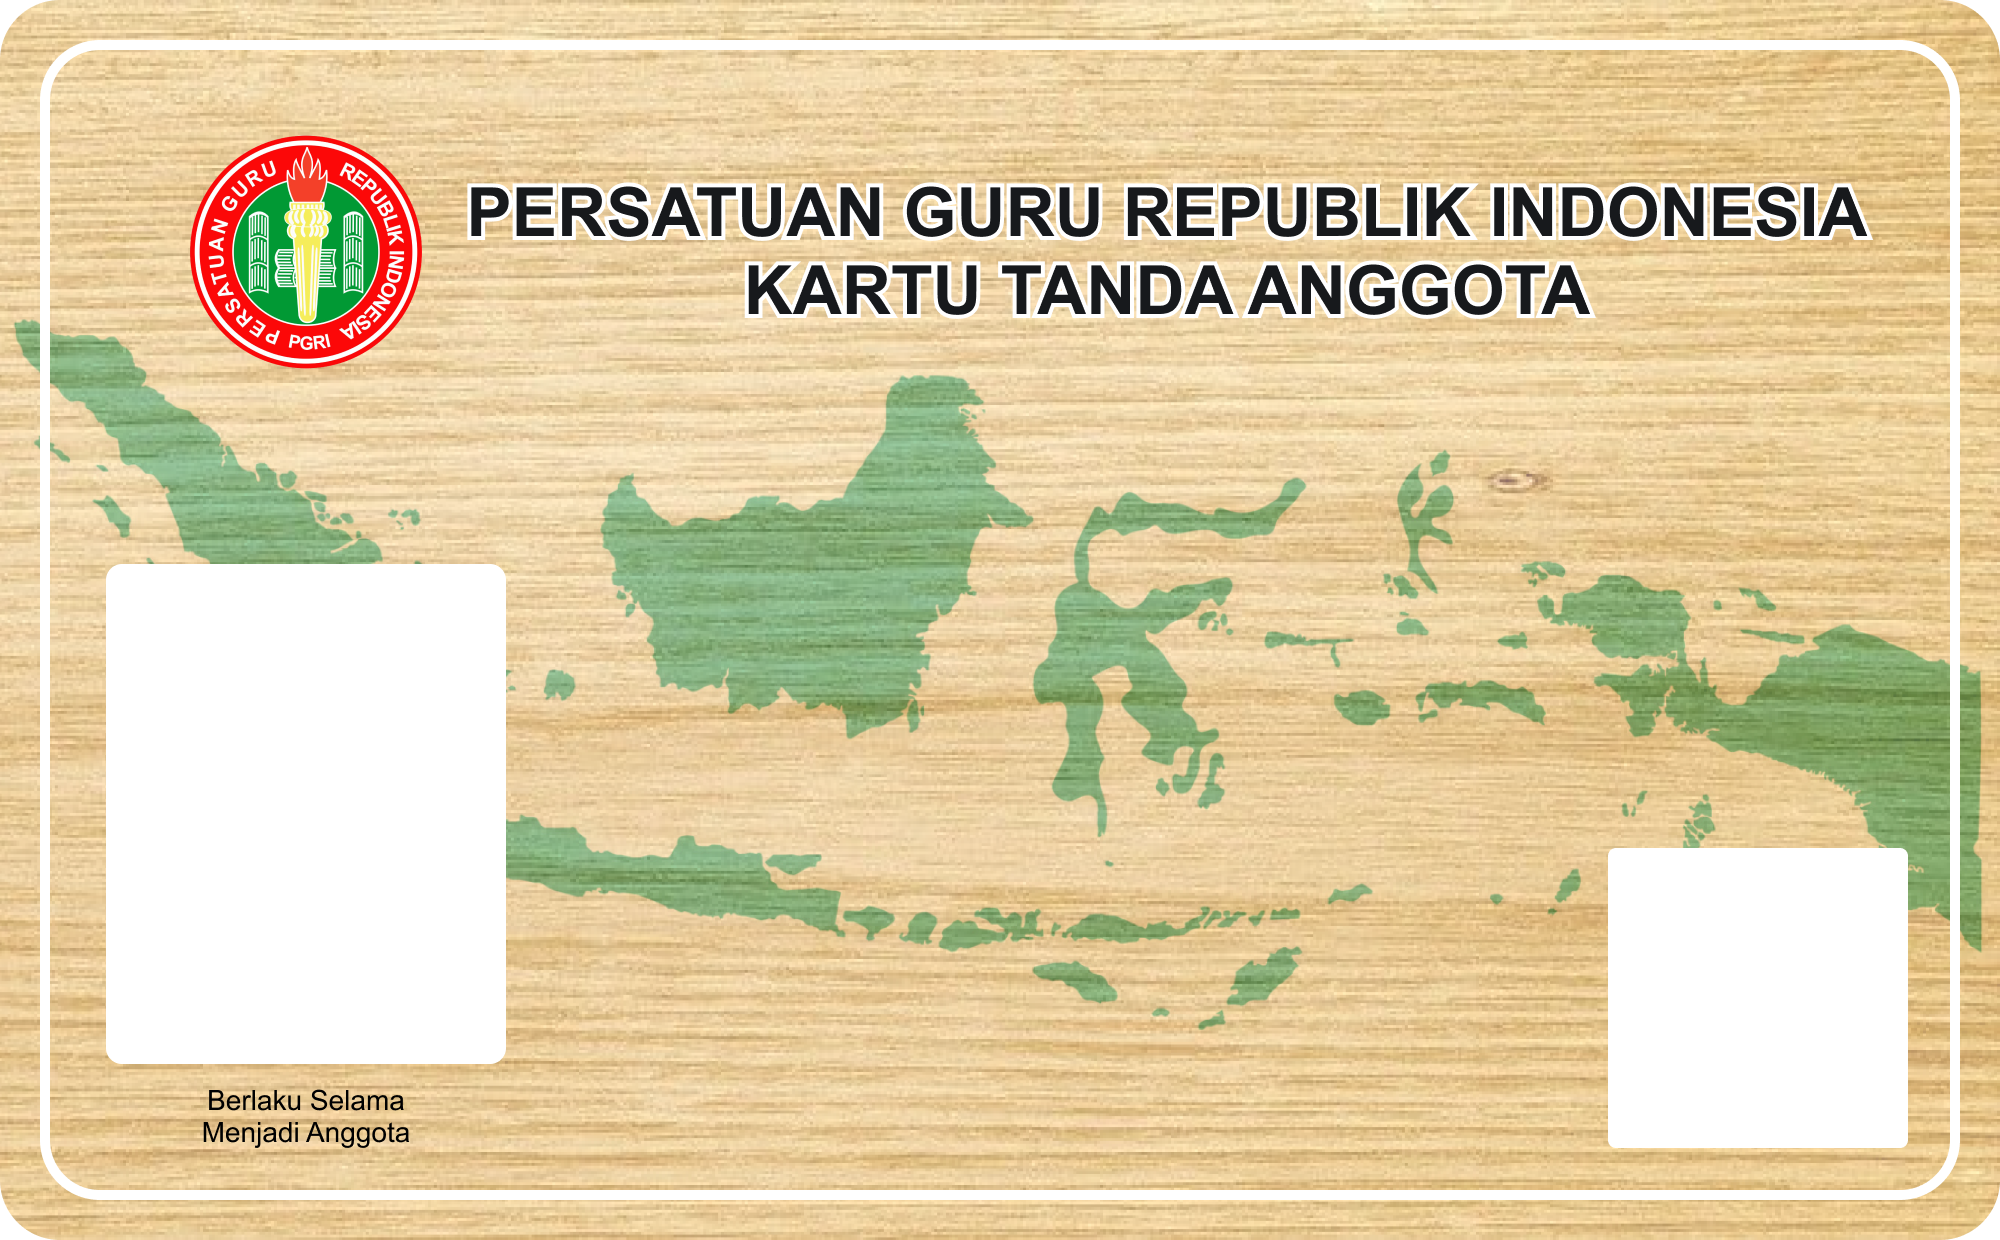
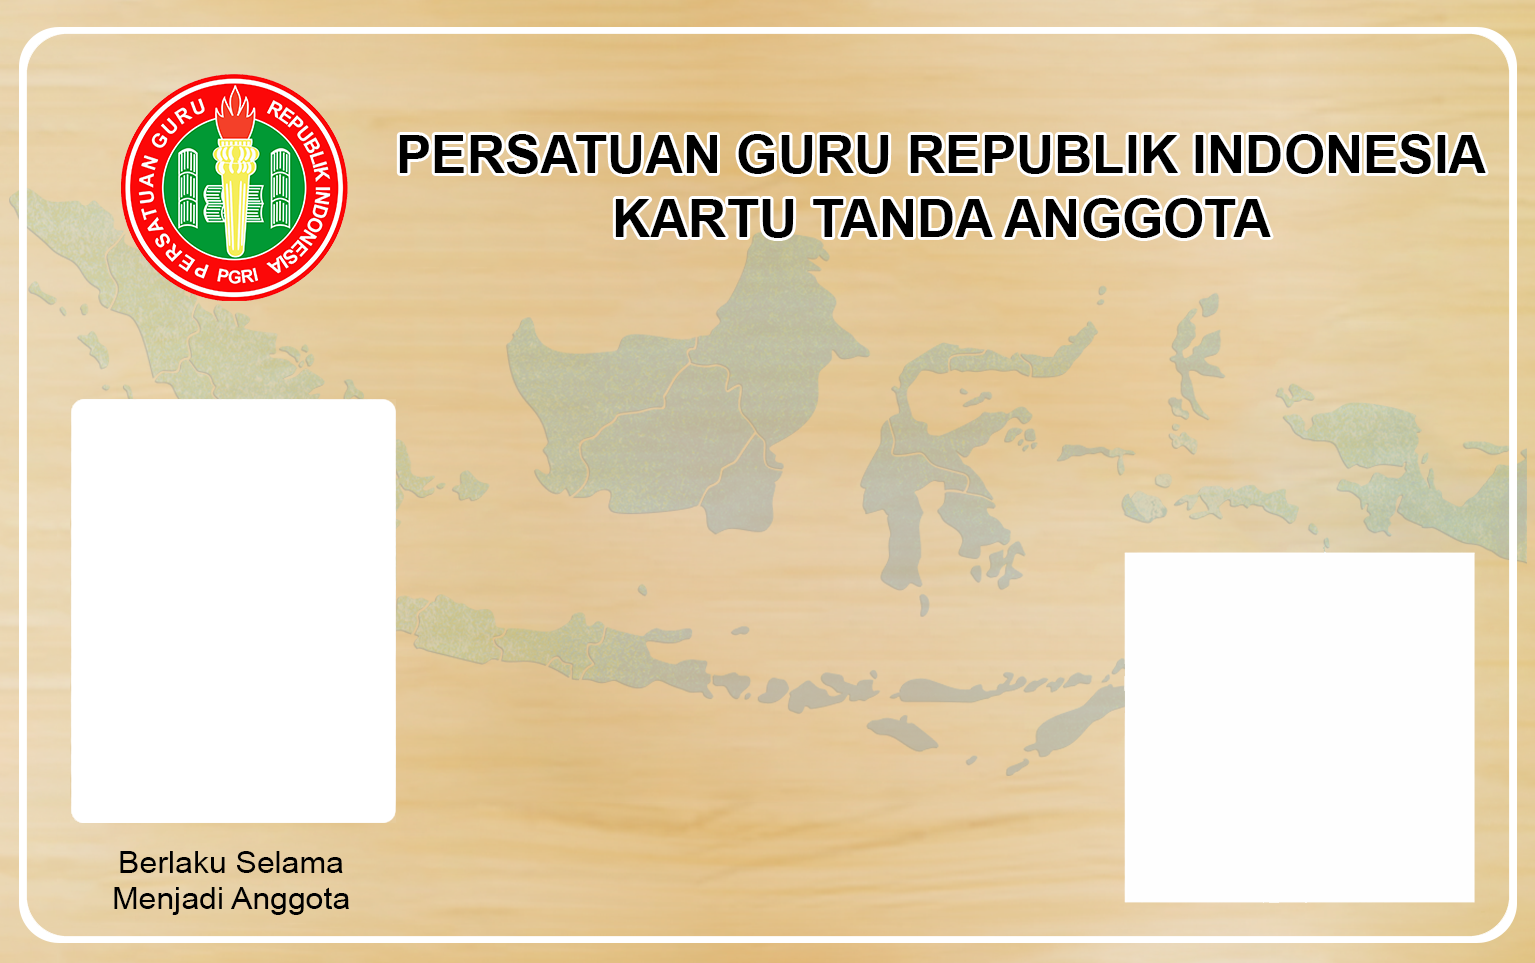
refactor: card and position

diff --git a/src/lib/kta-generator.ts b/src/lib/kta-generator.ts
@@ -16,11 +16,11 @@ export class KTANonBlankoGenerator {
   private readonly cardHeight = 638; // 5.4cm * 300 DPI / 2.54
 
   // Photo dimensions (2cm x 3cm at 300 DPI)
-  private readonly photoWidth = 236; // 2cm * 300 DPI / 2.54
-  private readonly photoHeight = 354; // 3cm * 300 DPI / 2.54
+  private readonly photoWidth = 270; // 2cm * 300 DPI / 2.54
+  private readonly photoHeight = 370; // 3cm * 300 DPI / 2.54
 
   // QR code dimensions (2x2cm at 300 DPI)
-  private readonly qrSize = 236; // 2cm * 300 DPI / 2.54
+  private readonly qrSize = 500; // 2cm * 300 DPI / 2.54
 
   constructor() {
     this.canvas = document.createElement("canvas");
@@ -153,25 +153,18 @@ export class KTANonBlankoGenerator {
     this.ctx.fillStyle = "#000";
     this.ctx.textAlign = "left";
 
-    // Same text positioning as original
-    const textStartX = 300;
-    const nameY = 309;
-    const npaY = 349;
-    const agamaY = 389;
+    // Text positioning - centered vertically on card
+    const textStartX = 100; // Start from left with some margin
+    const nameY = this.cardHeight / 2 - 30; // Center position - 30px
+    const npaY = this.cardHeight / 2 + 30; // Center position + 30px
 
-    // Draw name (larger, bold)
-    this.ctx.font = "bold 24px Arial";
+    // Draw name with font 30 bold
+    this.ctx.font = "bold 30px Arial";
     this.ctx.fillText(data.namaAnggota, textStartX, nameY);
 
-    // Draw NPA
-    this.ctx.font = "20px Arial";
+    // Draw NPA with font 30 bold
+    this.ctx.font = "bold 30px Arial";
     this.ctx.fillText(`NPA. ${data.npa}`, textStartX, npaY);
-
-    // Draw agama
-    this.ctx.font = "20px Arial";
-    if (data.agama) {
-      this.ctx.fillText(`AGAMA: ${data.agama.toUpperCase()}`, textStartX, agamaY);
-    }
   }
 
   private drawValidityText(): void {
@@ -184,7 +177,7 @@ export class KTANonBlankoGenerator {
     const adjustedPhotoHeight = this.photoHeight * photoScaleHeight;
 
     // Calculate center position of photo
-    const photoCenterX = photoX + (adjustedPhotoWidth / 2);
+    const photoCenterX = photoX + adjustedPhotoWidth / 2;
     const validityY = photoY + adjustedPhotoHeight + 30; // 10px gap + some spacing
 
     this.ctx.fillStyle = "#000";
@@ -212,7 +205,6 @@ export class KTANonBlankoGenerator {
       this.drawUserPhoto();
       this.drawUserData(data);
       this.drawQRCode();
-      this.drawValidityText();
 
       // Return canvas as data URL
       return this.canvas.toDataURL("image/png", 1.0);
@@ -326,10 +318,10 @@ export class KTAGenerator {
 
     // ===== MANUAL ADJUSTMENT AREA - PHOTO =====
     // Ubah nilai-nilai ini untuk menyesuaikan posisi dan ukuran foto:
-    const photoX = 53.5; // Horizontal position foto (semakin besar = ke kanan)
-    const photoY = 289; // Vertical position foto (semakin besar = ke bawah)
-    const photoScaleWidth = 0.865; // Scale lebar foto (0.8 = 80% ukuran asli)
-    const photoScaleHeight = 0.73; // Scale tinggi foto (0.8 = 80% ukuran asli)
+    const photoX = 47; // Horizontal position foto (semakin besar = ke kanan)
+    const photoY = 264.1; // Vertical position foto (semakin besar = ke bawah)
+    const photoScaleWidth = 0.913; // Scale lebar foto (0.8 = 80% ukuran asli)
+    const photoScaleHeight = 0.795; // Scale tinggi foto (0.8 = 80% ukuran asli)
     const borderRadius = 8; // Border radius untuk foto (pixels)
     // ============================================
 
@@ -368,9 +360,9 @@ export class KTAGenerator {
 
     // ===== MANUAL ADJUSTMENT AREA - QR CODE =====
     // Ubah nilai-nilai ini untuk menyesuaikan posisi dan ukuran QR:
-    const qrScale = 0.65; // Scale QR code (0.7 = 70% ukuran asli)
-    const qrMarginRight = 47; // Margin dari kanan (semakin besar = lebih ke kiri)
-    const qrMarginBottom = 48; // Margin dari bawah (semakin besar = lebih ke atas)
+    const qrScale = 0.965; // Scale QR code (0.7 = 70% ukuran asli)
+    const qrMarginRight = 42; // Margin dari kanan (semakin besar = lebih ke kiri)
+    const qrMarginBottom = 42; // Margin dari bawah (semakin besar = lebih ke atas)
     const borderWidth = 2; // Lebar border QR code (pixels)
     const borderColor = "#000"; // Warna border QR code
     // =============================================
@@ -398,25 +390,18 @@ export class KTAGenerator {
     this.ctx.fillStyle = "#000";
     this.ctx.textAlign = "left";
 
-    // ===== MANUAL ADJUSTMENT AREA =====
-    // Ubah nilai-nilai ini untuk menyesuaikan posisi text:
-    const textStartX = 300; // Horizontal position (semakin besar = ke kanan)
-    const nameY = 309; // Vertical position nama (semakin besar = ke bawah)
-    const npaY = 349; // Vertical position NPA (semakin besar = ke bawah)
-    const tempatLahirY = 389; // Vertical position tempat lahir (semakin besar = ke bawah)
-    // ====================================
+    // Text positioning - centered vertically on card
+    const textStartX = 300; // Start from left with some margin
+    const nameY = this.cardHeight / 2 - 30; // Center position - 30px
+    const npaY = this.cardHeight / 2 + 30; // Center position + 30px
 
-    // Draw name (larger, bold)
-    this.ctx.font = "bold 24px Arial";
+    // Draw name with font 30 bold
+    this.ctx.font = "bold 30px Arial";
     this.ctx.fillText(data.namaAnggota, textStartX, nameY);
 
-    // Draw NPA
-    this.ctx.font = "20px Arial";
+    // Draw NPA with font 30 bold
+    this.ctx.font = "bold 30px Arial";
     this.ctx.fillText(`NPA. ${data.npa}`, textStartX, npaY);
-
-    // Draw tempat lahir
-    this.ctx.font = "20px Arial";
-    this.ctx.fillText(`TEMPAT LAHIR: ${data.tempatLahir.toUpperCase()}`, textStartX, tempatLahirY);
   }
 
   public async generateKTA(options: KTAGeneratorOptions): Promise<string> {
